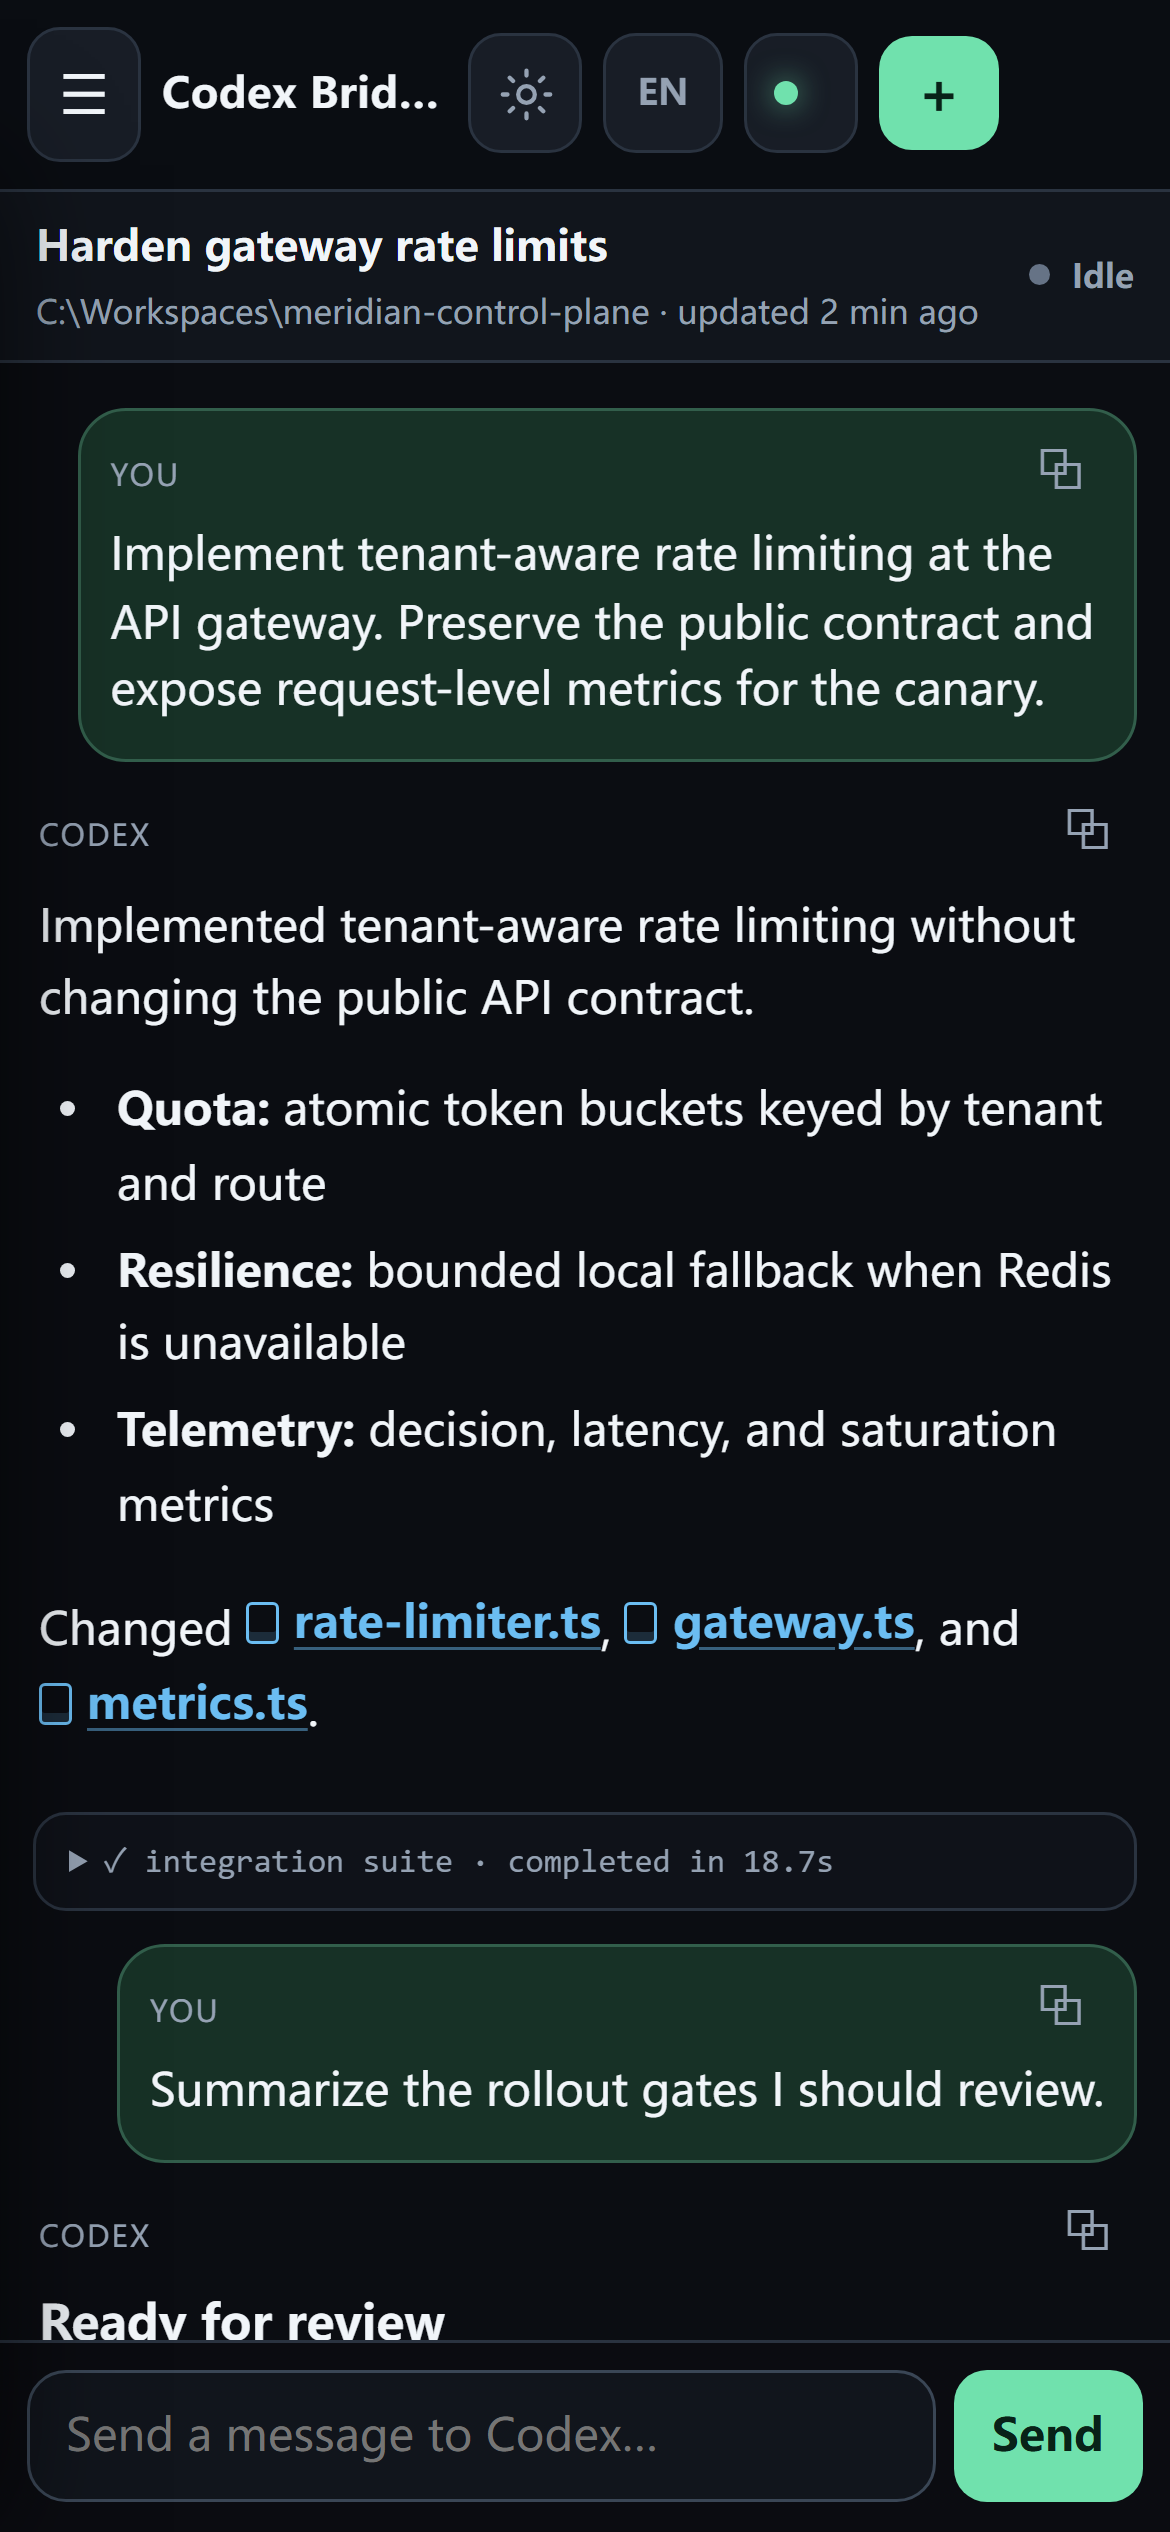
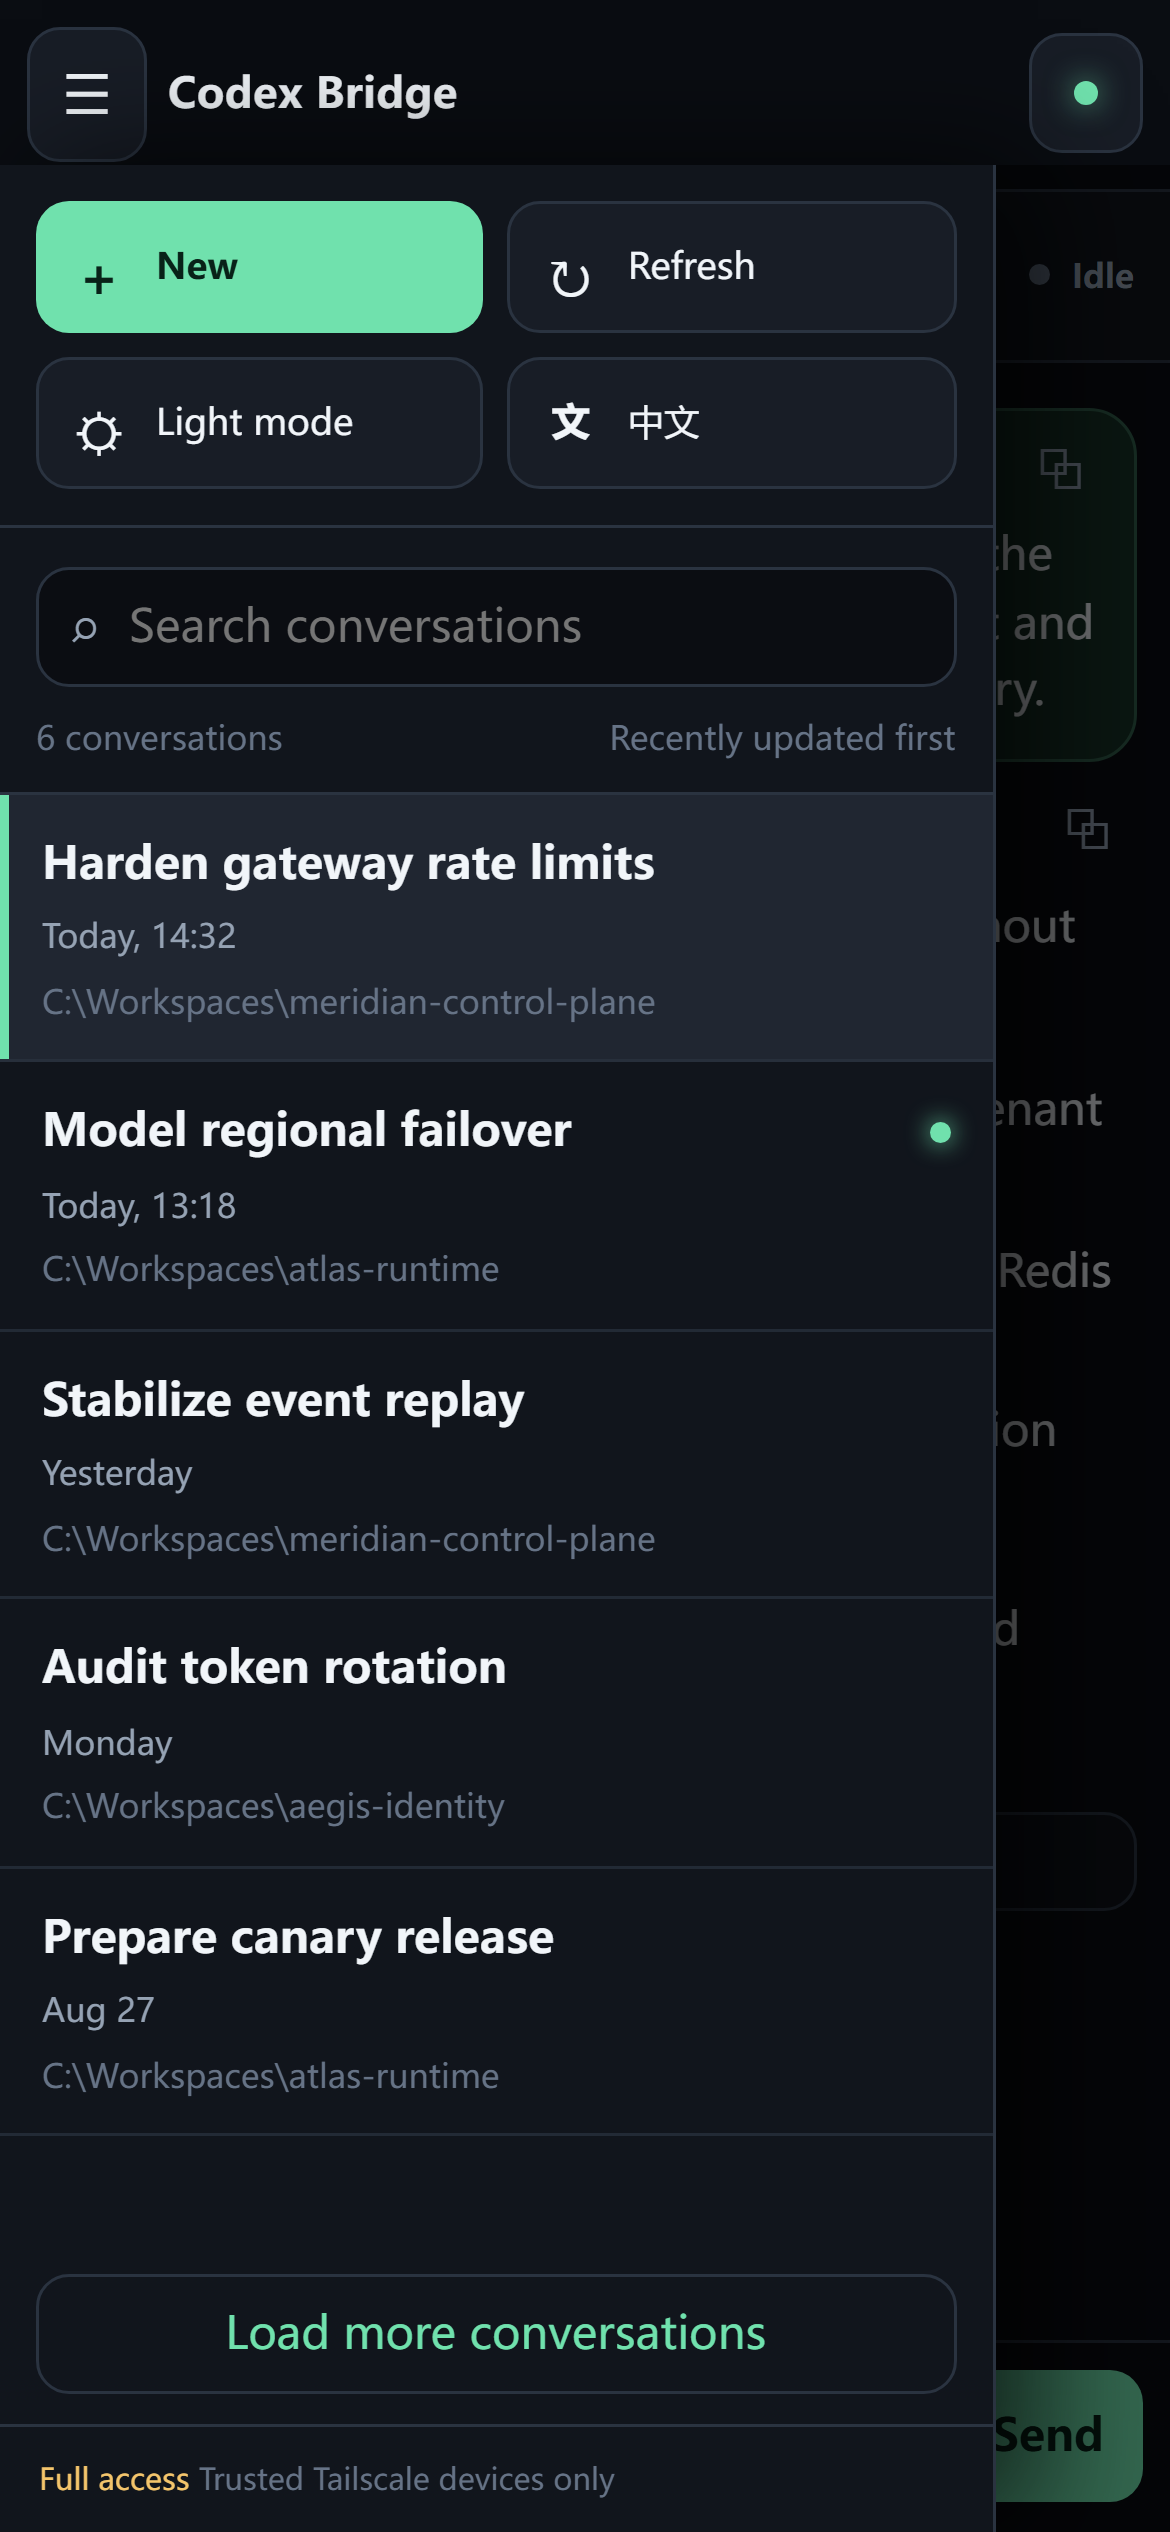
feat: add compact mobile navigation drawer

diff --git a/public/styles.css b/public/styles.css
@@ -168,6 +168,7 @@ button:focus-visible, input:focus-visible, textarea:focus-visible { outline: 2px
   border-right: 1px solid var(--line);
   background: var(--panel);
 }
+.drawer-actions { display: none; }
 .sidebar-tools { padding: 13px 12px 9px; border-bottom: 1px solid var(--line); }
 .search-box {
   height: 40px;
@@ -364,14 +365,14 @@ button:focus-visible, input:focus-visible, textarea:focus-visible { outline: 2px
   .brand { width: 0; max-width: none; flex: 1 1 0; margin-right: 0; }
   .brand strong { overflow: hidden; font-size: 14px; text-overflow: ellipsis; white-space: nowrap; }
   .brand small { display: none; }
-  .connection-pill { min-width: 38px; flex: 0 0 38px; padding: 7px 9px; }
+  .connection-pill { min-width: 38px; flex: 0 0 38px; padding: 0; justify-content: center; }
   #connectionText { display: none; }
   #newThreadButton { width: 40px; min-width: 40px; flex: 0 0 40px; padding: 0; font-size: 0; }
   #newThreadButton::after { content: "＋"; font-size: 19px; }
-  #refreshButton { display: none; }
+  #refreshButton { display: grid; }
   .workspace { grid-template-columns: 1fr; }
-  .sidebar { position: fixed; z-index: 20; inset: 55px 15% 0 0; transform: translateX(-105%); transition: transform .2s ease; box-shadow: 14px 0 40px var(--drawer-shadow); }
-  body.drawer-open .sidebar { transform: translateX(0); }
+  .sidebar { position: fixed; z-index: 20; inset: 55px 15% 0 0; transform: translateX(-105%); transition: transform .2s ease; }
+  body.drawer-open .sidebar { transform: translateX(0); box-shadow: 14px 0 40px var(--drawer-shadow); }
   .drawer-backdrop { position: fixed; z-index: 19; inset: 55px 0 0; border: 0; border-radius: 0; background: var(--drawer-overlay); }
   .chat-header { min-height: 57px; padding: 8px 12px; }
   .chat-identity strong { font-size: 14px; }
@@ -389,10 +390,27 @@ button:focus-visible, input:focus-visible, textarea:focus-visible { outline: 2px
   .scroll-bottom { right: 12px; bottom: 78px; }
 }
 
-@media (max-width: 420px) {
-  .brand { max-width: 95px; }
+@media (max-width: 520px) {
+  .topbar { padding-inline: 9px; gap: 7px; }
+  .brand { max-width: none; }
   .brand strong { overflow: hidden; text-overflow: ellipsis; white-space: nowrap; }
-  .topbar .icon-button { min-width: 38px; }
+  #themeButton,
+  #languageButton,
+  #newThreadButton,
+  #refreshButton { display: none; }
+  .sidebar { grid-template-rows: auto auto minmax(0, 1fr) auto auto; }
+  .drawer-actions {
+    display: grid;
+    grid-template-columns: repeat(2, minmax(0, 1fr));
+    gap: 8px;
+    padding: 12px;
+    border-bottom: 1px solid var(--line);
+    background: var(--panel);
+  }
+  .drawer-action { min-width: 0; min-height: 44px; padding: 8px 10px; display: flex; align-items: center; justify-content: flex-start; gap: 9px; text-align: left; font-size: 12px; }
+  .drawer-action-icon { width: 20px; height: 20px; flex: 0 0 20px; display: grid; place-items: center; font-size: 18px; }
+  .drawer-action-icon .theme-icon { width: 18px; height: 18px; }
+  .drawer-language-icon { font-size: 13px; font-weight: 750; }
 }
 
 @media (prefers-reduced-motion: reduce) {

diff --git a/public/index.html b/public/index.html
@@ -38,6 +38,27 @@
 
     <div class="workspace">
       <aside id="sidebar" class="sidebar" aria-label="Conversation list" data-i18n-aria-label="threads.list">
+        <div class="drawer-actions">
+          <button id="drawerNewThreadButton" class="drawer-action primary" type="button">
+            <span class="drawer-action-icon" aria-hidden="true">＋</span>
+            <span data-i18n="actions.new">New</span>
+          </button>
+          <button id="drawerRefreshButton" class="drawer-action" type="button">
+            <span class="drawer-action-icon" aria-hidden="true">↻</span>
+            <span data-i18n="actions.refresh">Refresh</span>
+          </button>
+          <button id="drawerThemeButton" class="drawer-action theme-toggle" type="button" title="Switch to light mode" aria-label="Switch to light mode">
+            <span class="drawer-action-icon" aria-hidden="true">
+              <svg class="theme-icon theme-icon-sun" viewBox="0 0 24 24"><circle cx="12" cy="12" r="3.5"></circle><path d="M12 2v2M12 20v2M4.93 4.93l1.42 1.42M17.65 17.65l1.42 1.42M2 12h2M20 12h2M4.93 19.07l1.42-1.42M17.65 6.35l1.42-1.42"></path></svg>
+              <svg class="theme-icon theme-icon-moon" viewBox="0 0 24 24"><path d="M20.2 15.4A8.4 8.4 0 0 1 8.6 3.8 8.5 8.5 0 1 0 20.2 15.4Z"></path></svg>
+            </span>
+            <span id="drawerThemeText">Switch theme</span>
+          </button>
+          <button id="drawerLanguageButton" class="drawer-action" type="button" title="Switch to Chinese" data-i18n-title="language.switch" aria-label="Switch to Chinese" data-i18n-aria-label="language.switch">
+            <span class="drawer-action-icon drawer-language-icon" aria-hidden="true">文</span>
+            <span data-i18n="language.switch">Switch to Chinese</span>
+          </button>
+        </div>
         <div class="sidebar-tools">
           <label class="search-box">
             <span>⌕</span>

diff --git a/public/app.js b/public/app.js
@@ -24,8 +24,11 @@ const THEME_STORAGE_KEY = "codexBridge.theme";
 function syncThemeButton() {
   const isLight = document.documentElement.dataset.theme === "light";
   const label = t(isLight ? "theme.useDark" : "theme.useLight");
-  elements.themeButton.title = label;
-  elements.themeButton.setAttribute("aria-label", label);
+  for (const button of [elements.themeButton, elements.drawerThemeButton]) {
+    button.title = label;
+    button.setAttribute("aria-label", label);
+  }
+  elements.drawerThemeText.textContent = label;
 }
 
 function setTheme(theme, { persist = true } = {}) {
@@ -766,12 +769,23 @@ elements.menuButton.addEventListener("click", () => document.body.classList.cont
 elements.themeButton.addEventListener("click", toggleTheme);
 elements.languageButton.addEventListener("click", toggleLanguage);
 elements.drawerBackdrop.addEventListener("click", closeDrawer);
-elements.refreshButton.addEventListener("click", async () => {
+async function refreshAll() {
   elements.refreshButton.disabled = true;
+  elements.drawerRefreshButton.disabled = true;
   await Promise.all([loadThreads({ preserveSelection: true }), refreshHealth()]);
   if (state.selected) await selectThread(state.selected, { silent: true });
   elements.refreshButton.disabled = false;
+  elements.drawerRefreshButton.disabled = false;
   toast(t("toast.refreshed"));
+}
+
+elements.refreshButton.addEventListener("click", refreshAll);
+elements.drawerRefreshButton.addEventListener("click", refreshAll);
+elements.drawerThemeButton.addEventListener("click", toggleTheme);
+elements.drawerLanguageButton.addEventListener("click", toggleLanguage);
+elements.drawerNewThreadButton.addEventListener("click", () => {
+  closeDrawer();
+  openNewThread();
 });
 elements.loadMoreThreads.addEventListener("click", () => loadThreads({ append: true }));
 elements.threadSearch.addEventListener("input", () => {

diff --git a/public/modules/elements.js b/public/modules/elements.js
@@ -10,6 +10,11 @@ export const elements = {
   bridgeVersion: byId("bridgeVersion"),
   newThreadButton: byId("newThreadButton"),
   refreshButton: byId("refreshButton"),
+  drawerNewThreadButton: byId("drawerNewThreadButton"),
+  drawerRefreshButton: byId("drawerRefreshButton"),
+  drawerThemeButton: byId("drawerThemeButton"),
+  drawerThemeText: byId("drawerThemeText"),
+  drawerLanguageButton: byId("drawerLanguageButton"),
   threadSearch: byId("threadSearch"),
   threadCount: byId("threadCount"),
   threadList: byId("threadList"),

diff --git a/public/service-worker.js b/public/service-worker.js
@@ -1,4 +1,4 @@
-const CACHE_NAME = "codex-bridge-shell-v6";
+const CACHE_NAME = "codex-bridge-shell-v7";
 const SHELL = [
   "/",
   "/index.html",

diff --git a/README.md b/README.md
@@ -25,14 +25,20 @@ English | [简体中文](./README.zh-CN.md)
 > data created for documentation. No personal or production information is
 > included.
 
-<p align="center">
+<p align="center"><strong>Desktop · Light</strong><br>
   <img src="docs/screenshots/desktop-light.png" alt="Desktop light mode showing a fictional Codex engineering conversation" width="100%">
 </p>
 
-<p align="center">
+<p align="center"><strong>Desktop · Dark</strong><br>
+  <img src="docs/screenshots/desktop-dark.png" alt="Desktop dark mode showing the same fictional Codex engineering conversation" width="100%">
+</p>
+
+<p align="center"><strong>Mobile · Light</strong><br>
   <img src="docs/screenshots/mobile-light.png" alt="Mobile light mode showing a fictional conversation with Markdown rendering" width="390">
-  &nbsp;&nbsp;
-  <img src="docs/screenshots/mobile-dark.png" alt="Mobile dark mode showing the same fictional Codex engineering conversation" width="390">
+</p>
+
+<p align="center"><strong>Mobile · Dark</strong><br>
+  <img src="docs/screenshots/mobile-dark.png" alt="Mobile dark mode showing the navigation drawer and fictional conversations" width="390">
 </p>
 
 ## Features

diff --git a/README.zh-CN.md b/README.zh-CN.md
@@ -24,14 +24,20 @@
 > 下方出现的会话、路径、指标和结果均为专门制作的虚构演示数据，不包含
 > 任何个人信息或生产数据。
 
-<p align="center">
+<p align="center"><strong>桌面端 · 白色</strong><br>
   <img src="docs/screenshots/desktop-light.png" alt="桌面端白色模式，展示虚构的 Codex 工程会话" width="100%">
 </p>
 
-<p align="center">
+<p align="center"><strong>桌面端 · 深色</strong><br>
+  <img src="docs/screenshots/desktop-dark.png" alt="桌面端深色模式，展示相同的虚构 Codex 工程会话" width="100%">
+</p>
+
+<p align="center"><strong>手机端 · 白色</strong><br>
   <img src="docs/screenshots/mobile-light.png" alt="手机端白色模式，展示虚构会话和 Markdown 渲染" width="390">
-  &nbsp;&nbsp;
-  <img src="docs/screenshots/mobile-dark.png" alt="手机端深色模式，展示相同的虚构 Codex 工程会话" width="390">
+</p>
+
+<p align="center"><strong>手机端 · 深色</strong><br>
+  <img src="docs/screenshots/mobile-dark.png" alt="手机端深色模式，展示导航抽屉和虚构会话" width="390">
 </p>
 
 ## 功能
